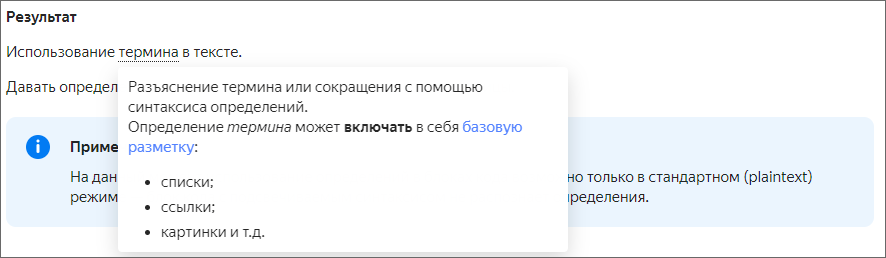
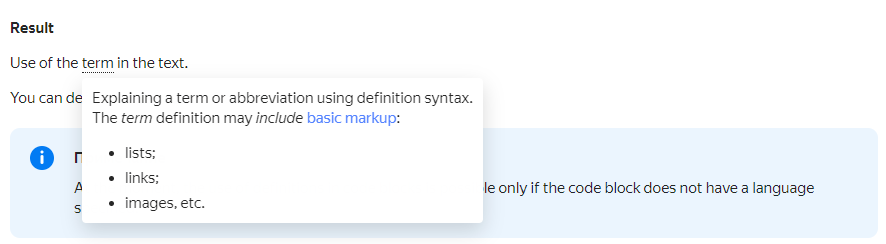
Update term.

diff --git a/en/syntax/term.md b/en/syntax/term.md
@@ -1,5 +1,8 @@
 [*term]: Explaining a term or abbreviation using definition syntax.
-The term definition may include _basic_ markup.
+The _term_ definition may *include* [basic markup](base.md):
+* lists;
+* links;
+* images, etc.
 
 # Definition
 
@@ -20,6 +23,8 @@ You can define terms anywhere on the page.
 
 {% note info %}
 
-At the moment, the use of definitions in code blocks is possible in standard (plaintext) mode.
+At the moment, the use of definitions in code blocks is possible only if the code block does not have a language specified.
 
 {% endnote %}
+
+![terms_sample](../_images/terms_sample.png)

diff --git a/ru/syntax/term.md b/ru/syntax/term.md
@@ -23,7 +23,7 @@
 
 {% note info %}
 
-На данный момент использование определений в блоках кода возможно только в стандартном (plaintext) режиме — блок кода с подсвечиваемым синтаксисом не распознает определения.
+На данный момент использование определений в блоках кода возможно, только если у блока кода не указан язык.
 
 {% endnote %}
 
